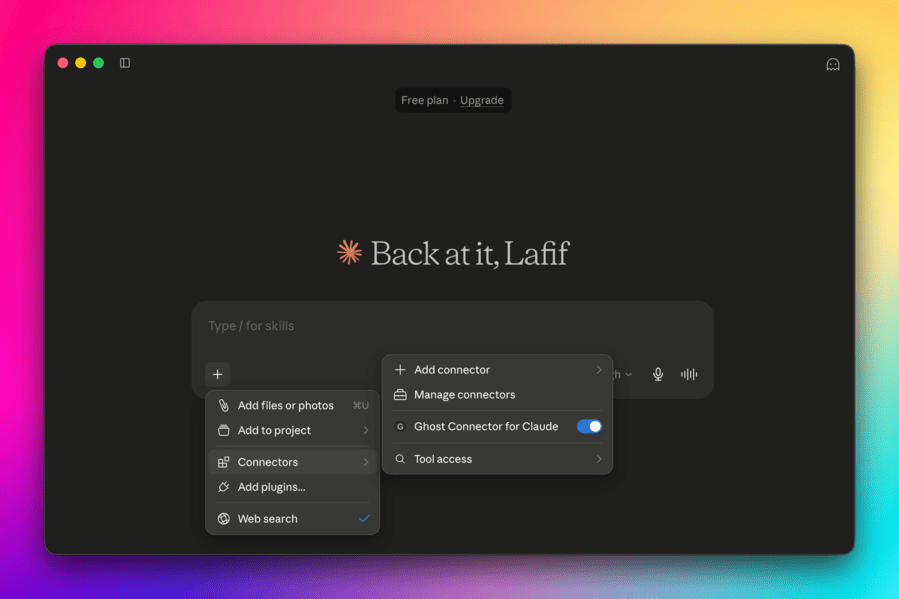
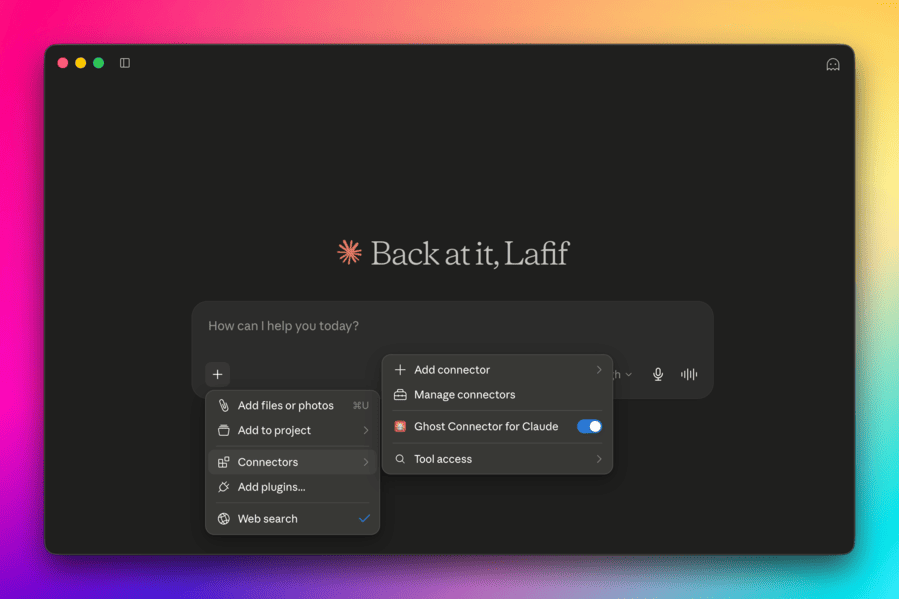
docs: add demo media and embed link to README
[skip ci]

diff --git a/README.md b/README.md
@@ -4,8 +4,6 @@
   <img src="icon.png" alt="Ghost Connector for Claude" width="128" />
 </p>
 
-> Write, publish, and manage your Ghost blog directly from Claude Desktop.
-
 [![License: MIT](https://img.shields.io/badge/license-MIT-green)](#license)
 [![Node](https://img.shields.io/badge/node-%E2%89%A520-339933)](#development)
 [![Claude](https://img.shields.io/badge/Claude-Desktop-D97757)](https://claude.ai)
@@ -13,7 +11,11 @@
 
 Connect Claude to your Ghost CMS blog and run your entire publishing workflow through conversation. Draft posts from an outline, manage newsletter members, swap themes, audit drafts — no admin-panel clicking, no copy-paste.
 
-[![Watch the demo](demo.png)](https://github.com/qutek/ghost-connector-claude-extension/raw/main/demo.webm)
+<p align="center">
+  <img src="demo.png" alt="Ghost Connector for Claude"/>
+</p>
+
+>Write, publish, and manage your Ghost blog directly from Claude Desktop. [Watch the demo](https://cln.sh/NCNJ3ZFh){:target="_blank"}
 
 ---
 